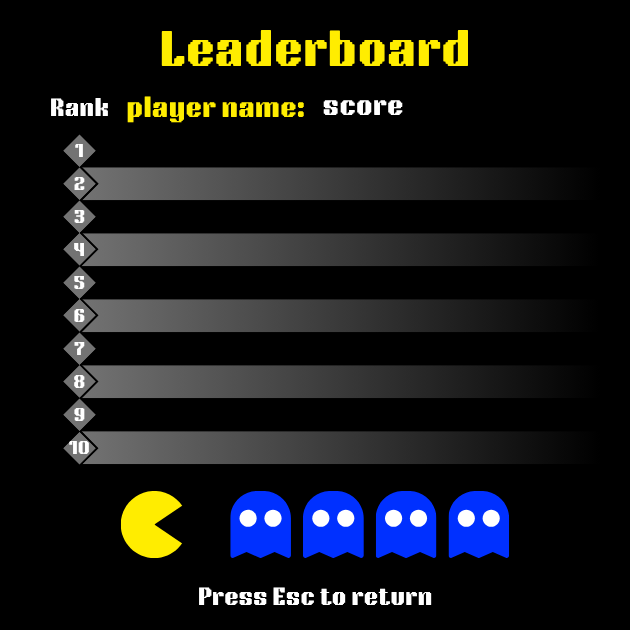
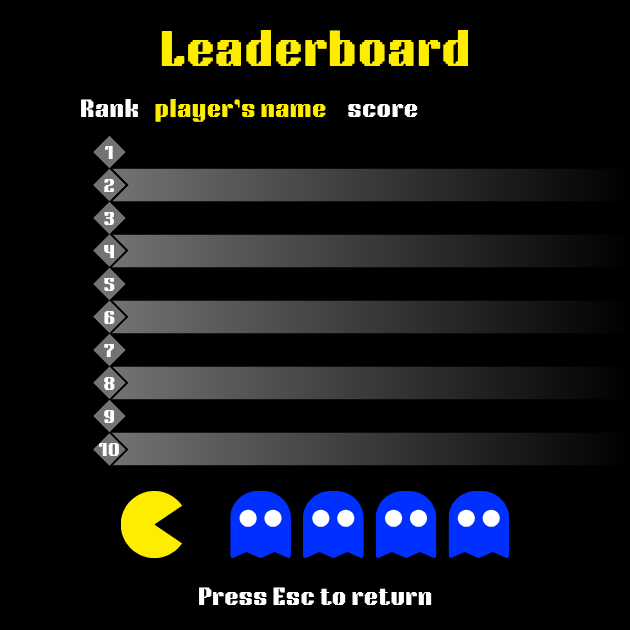
final modification to leaderboard

Changed region(s): [[0.0603, 0.1508, 0.6635, 0.754]]

diff --git a/game/menu.py b/game/menu.py
@@ -191,8 +191,8 @@ def show_leaderboard(screen, font, screen_width, screen_height):
         for i, record in enumerate(records):
             text = small_font.render(f"{record['name']}: ", True, YELLOW)
             text_score = small_font.render(f" {record['score']} (Seed: {record['seed']}, Time: {int(record['time']//60):02d}:{int(record['time']%60):02d})", True, WHITE)
-            screen.blit(text, (screen_width // 6, 142 + i * 33.5))  # 顯示每條記錄
-            screen.blit(text_score, (screen_width // 6 + 120, 142 + i * 33.5))  # 顯示分數、種子和時間
+            screen.blit(text, (screen_width // 4, 142 + i * 33.5))  # 顯示每條記錄
+            screen.blit(text_score, (screen_width // 4 + 120, 142 + i * 33.5))  # 顯示分數、種子和時間
         pygame.display.flip()
 
 def update_config_seed(new_seed):
